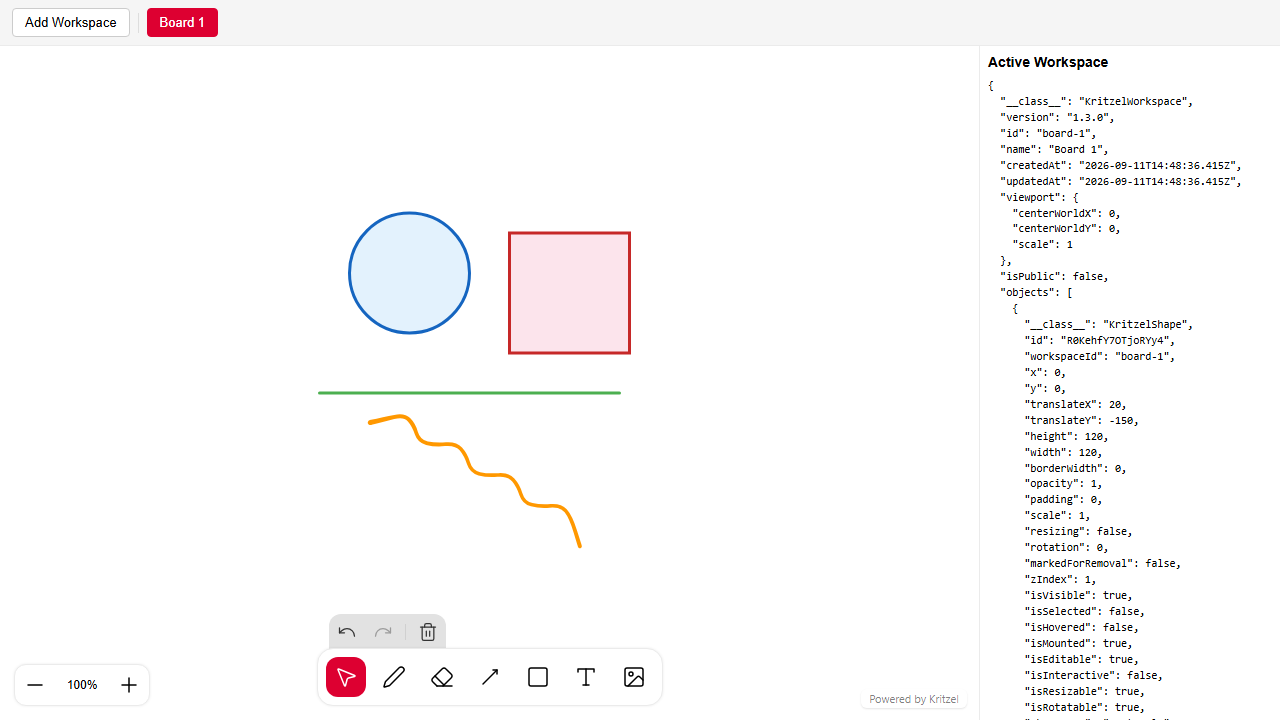
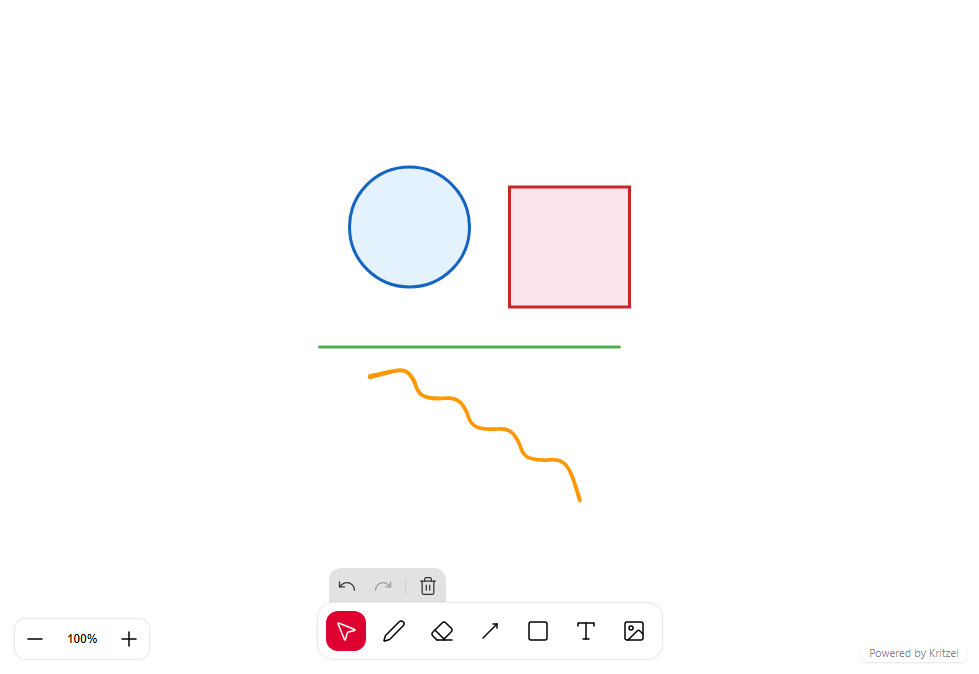
#380: Adjust workspace screenshot test to just be taken of the editor without the sidebar

diff --git a/apps/demos/_e2e/tests/fundamentals-visual.spec.ts b/apps/demos/_e2e/tests/fundamentals-visual.spec.ts
@@ -28,11 +28,14 @@ async function expectFundamentalScreenshot(
   editorPage: Parameters<typeof waitForFundamentalPage>[0],
   route: string,
   routeName: string,
+  target: 'page' | 'editor' = 'page',
 ) {
   await editorPage.goto(route);
   await waitForFundamentalPage(editorPage);
 
-  await expect(editorPage.page).toHaveScreenshot(`${routeName}.png`);
+  const screenshotTarget = target === 'editor' ? editorPage.page.locator('kritzel-editor').first() : editorPage.page;
+
+  await expect(screenshotTarget).toHaveScreenshot(`${routeName}.png`);
 }
 
 test.describe('Fundamentals Pages Visual Regression', () => {
@@ -188,12 +191,12 @@ test.describe('Fundamentals Pages Visual Regression', () => {
     await expectFundamentalScreenshot(editorPage, '/fundamentals/workspaces/create', 'fundamentals-workspaces-create');
   });
 
-  test.skip('should match screenshot for fundamentals-workspaces-read', async ({ editorPage }) => {
-    await expectFundamentalScreenshot(editorPage, '/fundamentals/workspaces/read', 'fundamentals-workspaces-read');
+  test('should match screenshot for fundamentals-workspaces-read', async ({ editorPage }) => {
+    await expectFundamentalScreenshot(editorPage, '/fundamentals/workspaces/read', 'fundamentals-workspaces-read', 'editor');
   });
 
   test('should match screenshot for fundamentals-workspaces-update', async ({ editorPage }) => {
-    await expectFundamentalScreenshot(editorPage, '/fundamentals/workspaces/update', 'fundamentals-workspaces-update');
+    await expectFundamentalScreenshot(editorPage, '/fundamentals/workspaces/update', 'fundamentals-workspaces-update', 'editor');
   });
 
   test('should match screenshot for fundamentals-workspaces-delete', async ({ editorPage }) => {
@@ -201,6 +204,6 @@ test.describe('Fundamentals Pages Visual Regression', () => {
   });
 
   test('should match screenshot for fundamentals-workspaces-switch', async ({ editorPage }) => {
-    await expectFundamentalScreenshot(editorPage, '/fundamentals/workspaces/switch', 'fundamentals-workspaces-switch');
+    await expectFundamentalScreenshot(editorPage, '/fundamentals/workspaces/switch', 'fundamentals-workspaces-switch', 'editor');
   });
 });
